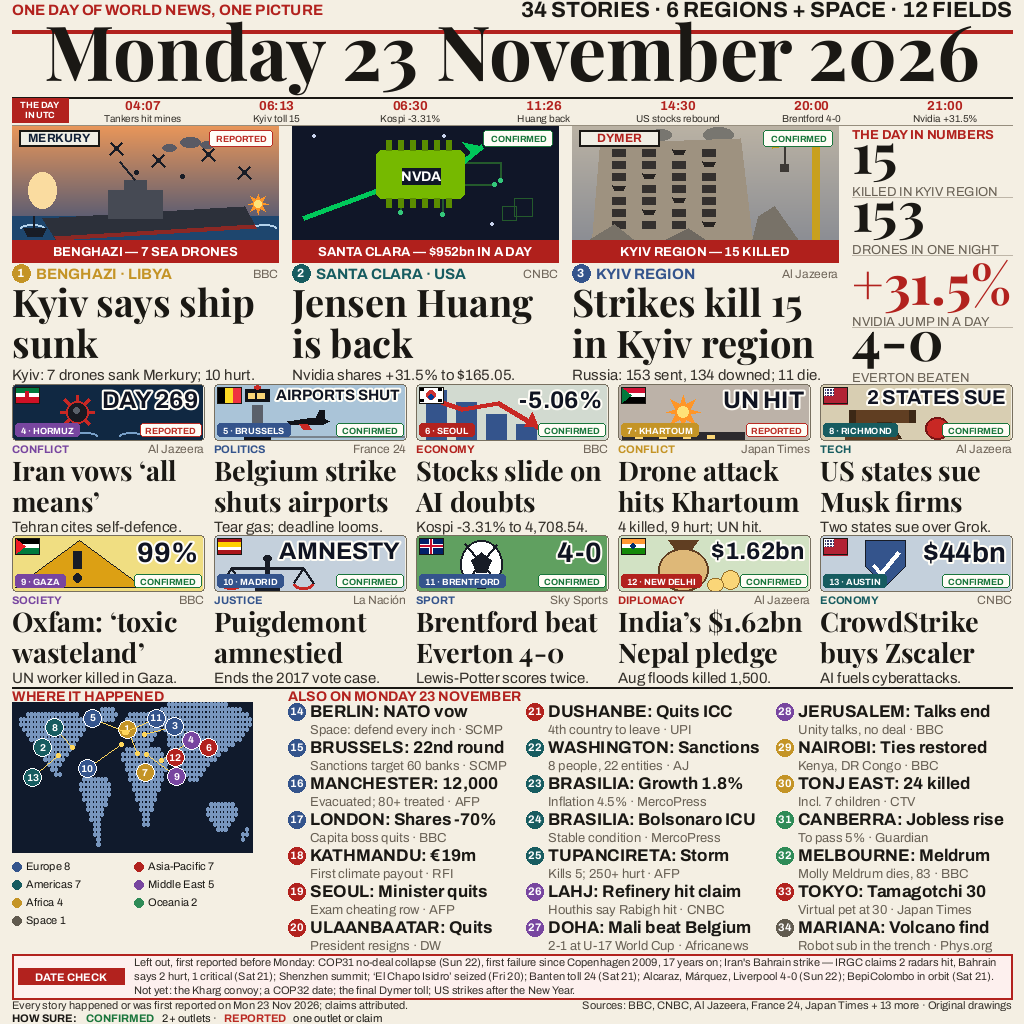
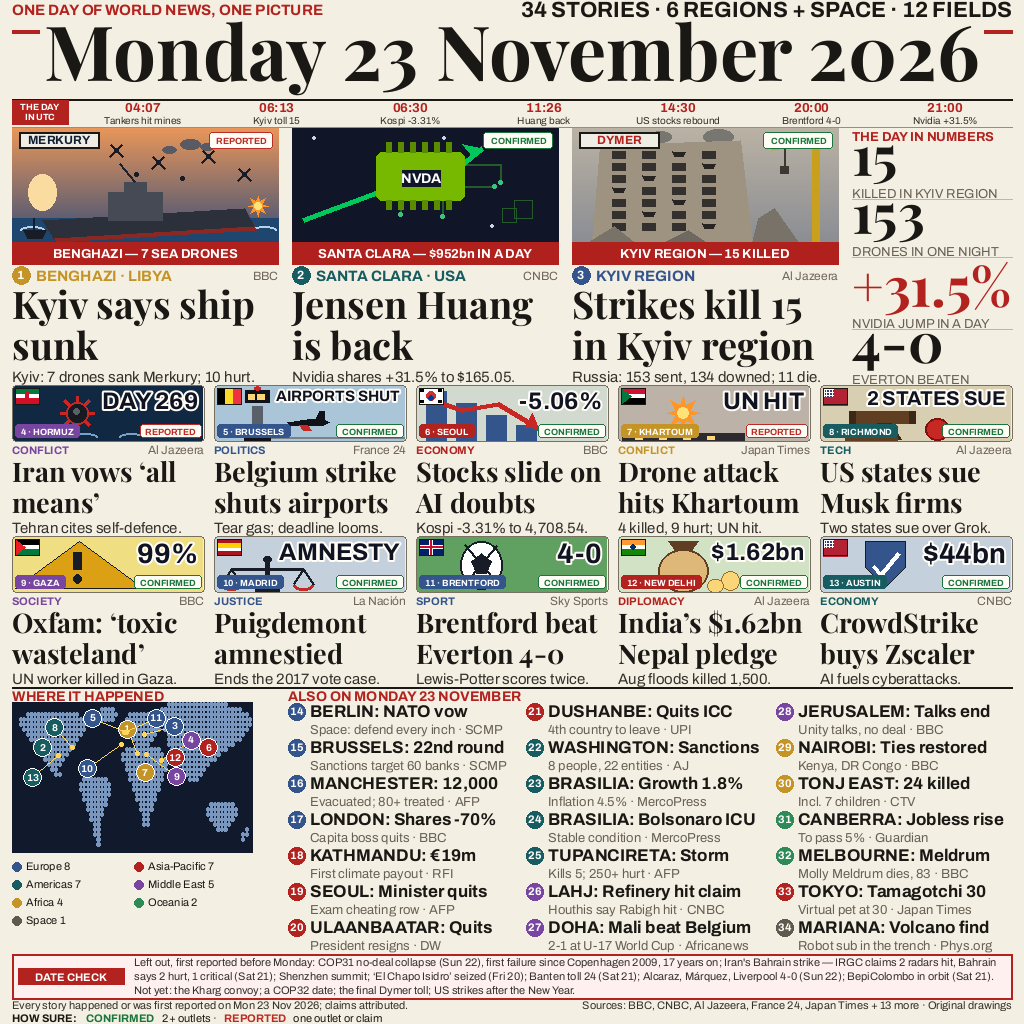
Date clears both masthead lines; MASTHEAD-AUDIT added
Pixel-verified finding: the full-width red masthead bar
(rows 30-33) struck through the date glyphs (date ink spans
y=21..95) and the black rule at 97 sat 1px under the
descenders. The bar was a filled rectangle, never registered
as a line, so the box audits could not see either defect.

Fix: the red bar now flanks the date as two segments
(rows 30-33, 5px clear of the date ink on both sides, 12px
below the strap/eyebrow ink); the black rule moves 97 -> 99
so the date ink clears it by 3px. Chain: ty 100, hy 128,
cy 385; by0 stays 687 (first empty row under the decks).
New permanent MASTHEAD-AUDIT from recorded ink boxes:
date vs bar 5, date vs rule 3, strap vs bar 12, eyebrow vs
bar 12, timeline times vs rule 3. All other gates green;
content, type sizes and other zones unchanged.

Changed region(s): [[0.0, 0.0938, 1.0, 0.6875], [0.125, 0.1562, 0.1562, 0.1875]]

diff --git a/draw.py b/draw.py
@@ -35,7 +35,12 @@ density matches the other heroes; the rail is in bagarte's
 format (each figure on its own line, its caption directly
 below, left edges aligned, hairlines between entries);
 timeline columns exactly even (fractional step)
-with centred entries.
+with centred entries. The red masthead bar flanks the date
+instead of crossing it: the date ink spans y=21..95, so a
+full-width bar at that height would strike the glyphs — the
+MASTHEAD-AUDIT holds the date ink >=3px from both lines, the
+strap/eyebrow >=3px from the bar and the timeline times
+>=3px from the date rule.
 
 Finding class closed after an independent visual inspection
 (2-4x zoom) caught what the box audits could not see: overlay
@@ -82,6 +87,7 @@ HERO_AUDIT = []
 PLATE_AUDIT = []
 RAIL_AUDIT = []
 DC_AUDIT = []
+MASTHEAD_AUDIT = []
 FIG = {f["key"]: f["display"]
        for f in json.loads((HERE / "figures.json").read_text())["figures"]}
 
@@ -976,15 +982,25 @@ def main():
     d.text((RX - rw, -3), eye_r, font=SANS_B(22), fill=INK)
     check_h("eyebrow left", "ONE DAY OF WORLD NEWS, ONE PICTURE",
             SANS_B(15), MX, RX - rw - 8)
-    d.rectangle([MX, 30, RX, 33], fill=RED)
     date = "Monday 23 November 2026"
     dw = d.textlength(date, font=SERIF(76))
+    _dbb = d.textbbox((0, 0), date, font=SERIF(76))
+    _dil = (W - dw) / 2 + _dbb[0]
+    _dir = (W - dw) / 2 + _dbb[2]
+    # The red masthead bar flanks the date: a full-width bar at
+    # this height would strike through the date glyphs (their ink
+    # spans y=21..95), so it runs in the two side gaps only, 5px
+    # clear of the date ink (MASTHEAD-AUDIT).
+    for _s0, _s1 in ((MX, _dil - 5), (_dir + 5, RX)):
+        d.rectangle([_s0, 30, _s1, 33], fill=RED)
+        LINES.append(((_s0, 30, _s1, 30), "masthead bar top"))
+        LINES.append(((_s0, 33, _s1, 33), "masthead bar bottom"))
     d.text(((W - dw) / 2, -2), date, font=SERIF(76), fill=INK)
-    d.line([MX, 97, RX, 97], fill=INK, width=2)
-    LINES.append(((MX, 97, RX, 97), "date rule"))
+    d.line([MX, 99, RX, 99], fill=INK, width=2)
+    LINES.append(((MX, 99, RX, 99), "date rule"))
 
     # -------------------------------- timeline: THE DAY IN UTC
-    ty = 98
+    ty = 100
     d.rectangle([MX, ty, MX + 56, ty + 24], fill=RED)
     for j, s in enumerate(("THE DAY", "IN UTC")):
         tw = d.textlength(s, font=SANS_B(9))
@@ -1007,9 +1023,31 @@ def main():
                           f"tl sep {i}"))
     d.line([MX, ty + 27, RX, ty + 27], fill=(150, 142, 126), width=1)
     LINES.append(((MX, ty + 27, RX, ty + 27), "timeline rule"))
+    # MASTHEAD-AUDIT (finding class closed 2026-11-24): the date
+    # ink vs BOTH masthead lines, the strap/eyebrow ink vs the
+    # red bar, and the timeline times vs the date rule — all from
+    # recorded glyph-ink boxes, all >= 3px.
+    _boxes = {s: b for b, s, t in TEXT_BOXES}
+    _date_b = _boxes["Monday 23 November 2026"]
+    _strap_b = next(b for b, s, t in TEXT_BOXES
+                    if s.startswith("34 STORIES"))
+    _eye_b = _boxes["ONE DAY OF WORLD NEWS, ONE PICTURE"]
+    MASTHEAD_AUDIT.append(("date ink vs red bar (side)",
+                           round(min(_date_b[0] - ( _dil - 5),
+                                     (_dir + 5) - _date_b[2]))))
+    MASTHEAD_AUDIT.append(("date ink vs date rule",
+                           99 - _date_b[3]))
+    MASTHEAD_AUDIT.append(("strap ink vs red bar",
+                           30 - _strap_b[3]))
+    MASTHEAD_AUDIT.append(("eyebrow ink vs red bar",
+                           30 - _eye_b[3]))
+    _times = [b for b, s, t in TEXT_BOXES
+              if s in {tm for tm, _ in TIMELINE}]
+    MASTHEAD_AUDIT.append(("timeline times vs date rule",
+                           min(b[1] for b in _times) - 99))
 
     # -------------------------------- heroes + THE DAY IN NUMBERS rail
-    hy = 126
+    hy = 128
     hw = 266
     for i, hero in enumerate(HEROES):
         place, region, field, head, deck, src, sure, big, biglab = hero
@@ -1091,7 +1129,7 @@ def main():
                            rail_tops[j] - (rail_tops[j] - 4) - 1))
 
     # -------------------------------- cards: 5 across x 2 rows
-    cy = 384
+    cy = 385
     cw = (RX - MX - 40) // 5
     chh = 148
     for i, card in enumerate(CARDS):
@@ -1348,6 +1386,10 @@ def main():
         if _num2 < 3 or _cap < 0:
             OVERFLOWS.append(f"RAIL-AUDIT {_name}: caption {_cap}, "
                              f"number {_num2}")
+    for _name, _dist in MASTHEAD_AUDIT:
+        print(f"MASTHEAD-AUDIT {_name}: {_dist}px")
+        if _dist < 3:
+            OVERFLOWS.append(f"MASTHEAD-AUDIT {_name}: {_dist}px")
     for _name, _m in DC_AUDIT:
         print(f"DC-AUDIT {_name}: margins L/T/R/B="
               f"{_m[0]}/{_m[1]}/{_m[2]}/{_m[3]}")
